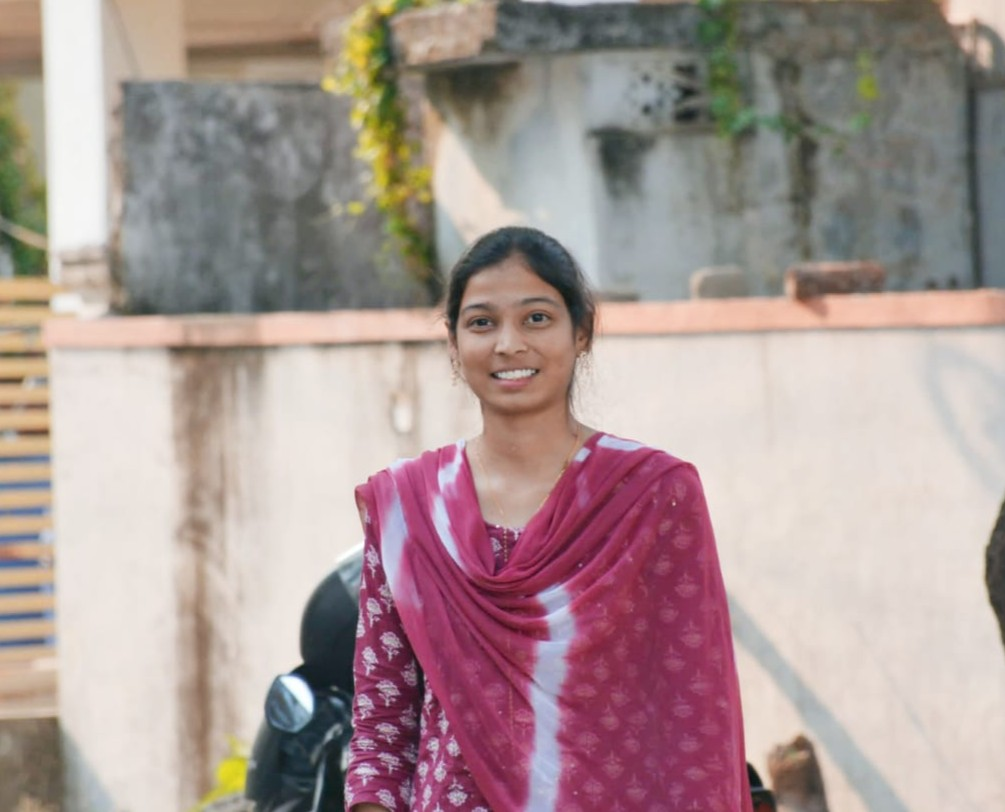
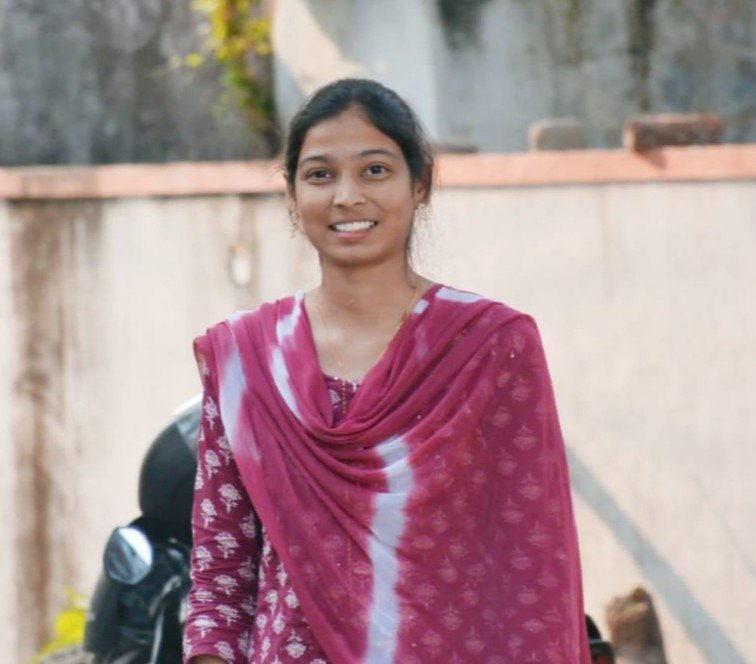
Refine registration cards, add Shabira image, and update about section text

diff --git a/src/pages/HomePage.jsx b/src/pages/HomePage.jsx
@@ -27,6 +27,7 @@ import deekshithaImg from '../assets/deekshitha.jpeg'
 import jkImg from '../assets/jk.jpeg'
 import dharaniImg from '../assets/dharani.jpeg'
 import sravanImg from '../assets/sravan.jpeg'
+import shabiraImg from '../assets/shabira.jpeg'
 
 
 /* ──────────── DATA ──────────── */
@@ -38,7 +39,7 @@ const TEAM_MEMBERS = [
     { name: "Lavanya", role: "Non-Tech Co-ordinator", img: lavanyaImg },
     { name: "Jayakumar", role: "Flash Mob Co-ordinator", img: jkImg },
     { name: "Deekshitha", role: "Flash Mob Co-ordinator", img: deekshithaImg },
-    { name: "Shabira", role: "Flash Mob Co-ordinator", img: null },
+    { name: "Shabira", role: "Flash Mob Co-ordinator", img: shabiraImg },
     { name: "Hemanth", role: "Flash Mob Co-ordinator", img: null },
     { name: "Dharani", role: "Flash Mob Co-ordinator", img: dharaniImg },
     { name: "Surendar Reddy", role: "Cultural Co-ordinator", img: suriImg },
@@ -482,7 +483,7 @@ export default function HomePage() {
         </h2>
 
         <p className="reveal">
-ITYUKTA is not just an event — it is an Innovation Hub where technology empowers, collaboration thrives, and young minds ignite with creativity. It provides students with a dynamic platform to explore current trends and transform themselves through emerging technologies. Beyond being a space for technical learning, ITYUKTA fosters excitement, creativity, and complete fun, creating an environment where innovation and enthusiasm go hand in hand. Through its diverse events and engaging activities, ITYUKTA enhances students’ technical skills while nurturing teamwork, leadership, and problem-solving abilities. ITYUKTA 2K26 equips participants with cutting-edge competencies, transforming theoretical knowledge into real-world expertise and serving as a launchpad for innovators, tech enthusiasts, and future industry leaders. By bridging the gap between academia and industry, ITYUKTA stands as a place where ideas flourish, knowledge turns into action, and innovation drives the future.        </p>
+ITYUKTA is not just an event — it is an Innovation Hub where technology empowers, collaborates & ignites with the minds of students. Ityukta makes students to learn the current trends and innovates themselves with the recent trends. ITYUKTA is not only a place to learn the technology but also filled with complete fun and to enhance student technical skills with events conducted in the ITYUKTA.ITYUKTA 2k26 equips students with cutting-edge skills, transforming theoretical knowledge into real-world expertise. It serves as a launchpad for innovators, problem-solvers, and tech enthusiasts, bridging the gap between academia and industry.ITYUKTA is a place flurish turns the knowledge into action & innovation dives the future!        </p>
 
         <div className="about-vision-box reveal">
           <h4 className="about-vision-label">Our_Vision</h4>

diff --git a/src/pages/RegisterPage.jsx b/src/pages/RegisterPage.jsx
@@ -6,47 +6,35 @@ import Footer from '../components/Footer'
 const registrationOptions = [
     {
         icon: '⚡',
-        title: 'General Registration - 1 Day',
+        title: 'General Registration',
+        duration: '1 Day',
         price: '₹100',
-      
-        features: [
-           
-            
-        ],
+        features: [],
         link: 'https://forms.gle/vLdWw5R9m5xJGJ7t9',
     },
     {
         icon: '🚀',
-        title: 'General Registration - 2 Days',
+        title: 'General Registration',
+        duration: '2 Days',
         price: '₹200',
-       
-        features: [
-           
-            
-        ],
+        features: [],
         link: 'https://forms.gle/Um8L8CyU2ZZ3Yrx7A',
     },
     {
         icon: '🏨',
-        title: 'General Registration with Accommodation - 1 Day',
+        title: 'General Registration with Accommodation',
+        duration: '1 Day',
         price: '₹300',
-       features: [
-        
-    ],
-    
+        features: [],
         link: 'https://forms.gle/VdY1DyvQ5y9PPCh2A',
     },
     {
         icon: '👑',
-        title: 'General Registration with Accommodation - 2 Days',
+        title: 'General Registration with Accommodation',
+        duration: '2 Days',
         price: '₹500',
-       features: [
-       
-        
-    ],
-            link: 'https://forms.gle/XrBwGQNZdMZY8mBE9',
-
-        
+        features: [],
+        link: 'https://forms.gle/XrBwGQNZdMZY8mBE9',
     },
 ]
 
@@ -85,6 +73,7 @@ function TiltCard({ option }) {
             <div className="card-content">
                 <div className="register-icon">{option.icon}</div>
                 <h3>{option.title}</h3>
+                {option.duration && <div className="register-duration">{option.duration}</div>}
                 <div className="price-wrapper">
                     <img src="/images/blast.png" className="price-blast" alt="Price Tag" />
                     <span className="price-text">{option.price}</span>

diff --git a/src/styles/style.css b/src/styles/style.css
@@ -2873,7 +2873,7 @@ a {
 /* LEFT side - Name */
 .patron-name {
     font-family: var(--font-display);
-    font-size: 1.35rem;
+    font-size: 1.30rem;
     font-weight: 800;
     color: #fff;
     line-height: 1.3;
@@ -6499,6 +6499,7 @@ a.event-card {
     border: 1px solid rgba(255, 255, 255, 0.08);
     overflow: hidden;
     color: #fff;
+    
 }
 
 .register-card:hover {
@@ -6523,11 +6524,22 @@ a.event-card {
 
 .register-card h3 {
     font-size: 1.4rem;
-    margin-bottom: 1rem;
-    min-height: 3.5rem;
+    margin-bottom: 0.5rem;
+    min-height: auto;
+    text-align: center;
+    justify-content: center;
     display: flex;
     align-items: center;
     color: var(--text-primary);
+}
+
+.register-duration {
+    font-size: 1.2rem;
+    font-weight: 700;
+    color: var(--accent-primary);
+    margin-bottom: 1.5rem;
+    text-transform: uppercase;
+    letter-spacing: 1px;
 }
 
 /* Blast Price Section */
